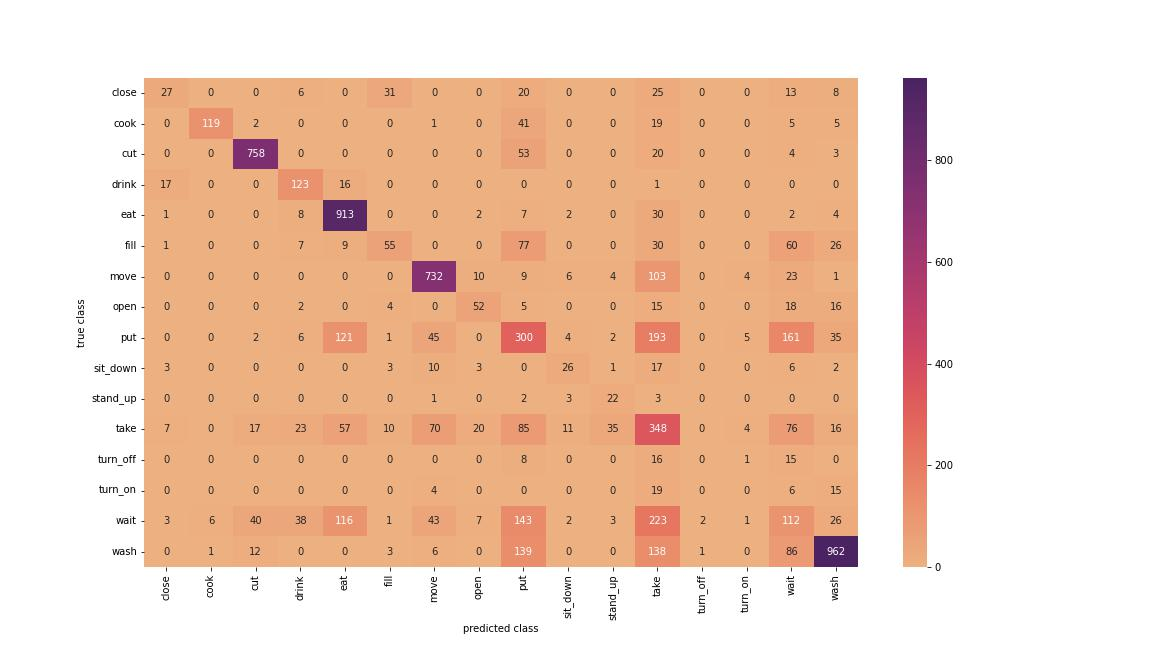
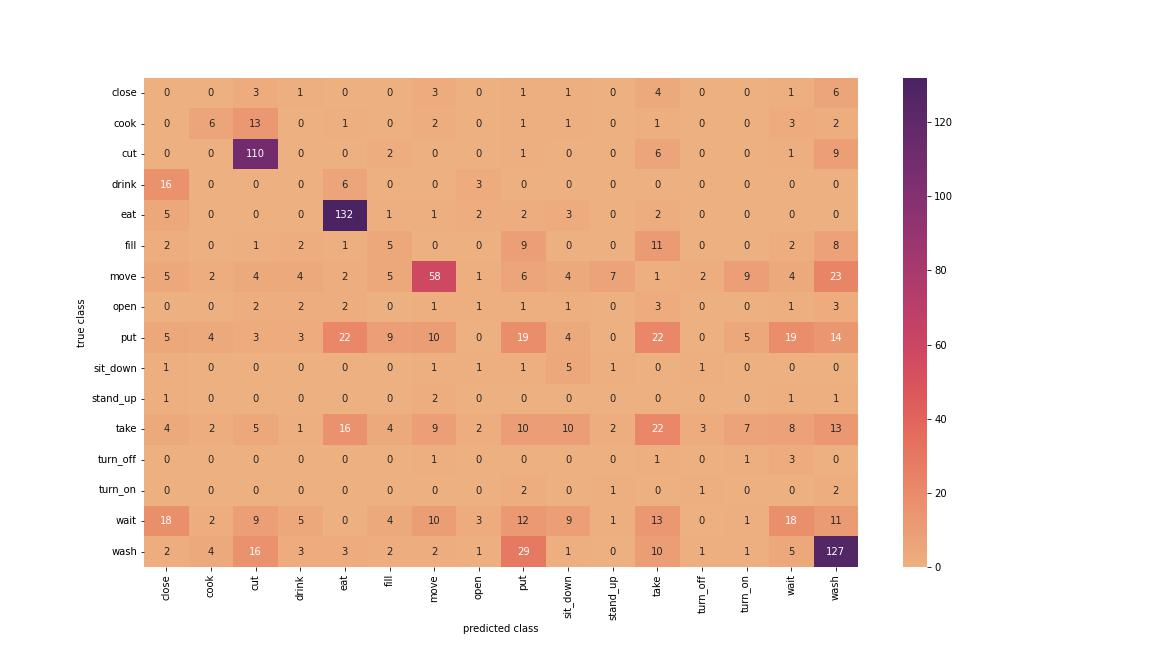
tests

diff --git a/carrots/eval/loaders.py b/carrots/eval/loaders.py
@@ -53,6 +53,19 @@ def one_hot_encode(targets, nb_classes):
     res = np.eye(nb_classes)[np.array(targets).reshape(-1)]
     return res.reshape(list(targets.shape)+[nb_classes])
 
+# Data Augmentation functions from https://github.com/terryum/Data-Augmentation-For-Wearable-Sensor-Data
+def DA_Scaling(X, sigma=0.1):
+    np.random.seed(42)
+    scalingFactor = np.random.normal(loc=1.0, scale=sigma, size=(1,X.shape[1]))
+    myNoise = np.matmul(np.ones((X.shape[0],1)), scalingFactor)
+    return X*myNoise
+
+def DA_Jitter(X, sigma=0.05):
+    np.random.seed(42)
+    myNoise = np.random.normal(loc=0, scale=sigma, size=X.shape)
+    return X+myNoise
+# End DA functions
+
 def make_views(arr, win_size, step_size, writeable = False):
   """
   arr: input 2d array to be windowed
@@ -75,39 +88,74 @@ def make_views(arr, win_size, step_size, writeable = False):
   )
   return new_view_structure
 
-# Load carrots Dataset, it has 16 distinct classes 0-15
-def get_carrots():
-    X_1, y_1, _ = load_dataset(1)
-    X_2, y_2, _ = load_dataset(2)
-    X_3, y_3, _ = load_dataset(3)
-    X_4, y_4, _ = load_dataset(4)
-    X_5, y_5, _ = load_dataset(5)
-    X_6, y_6, _ = load_dataset(6)
-    #X_7, y_7, le = load_dataset(7)
-    
-    x = np.concatenate([X_1, X_2, X_3, X_4, X_5, X_6], axis=0)
-    y = np.concatenate([y_1, y_2, y_3, y_4, y_5, y_6], axis=0)
-
-    # Segementing the DATA into windows of size 128 / ca. 1 second
-    x = np.ascontiguousarray(x)
-    views = make_views(x, 4, 1)
+def get_windows(X,y, win_size, step_size):
+    X = np.ascontiguousarray(X)
+    views = make_views(X, win_size, step_size)
     x_newshape = (views.shape[0], views.shape[1]*views.shape[2])
     x = np.reshape(views, newshape=x_newshape)
         
     y = y.astype('int64') # change labels to int64 for windowing correctly
     y = np.ascontiguousarray(y)
     y_2d = np.reshape(y, (y.shape[0],1))
-    y_views = make_views(y_2d, 4, 1)
+    y_views = make_views(y_2d, win_size, step_size)
     y_newshape = (y_views.shape[0], y_views.shape[1]*y_views.shape[2])
     y_new = np.reshape(y_views, newshape=y_newshape)
-    
-    # Choosing most common value of a window as label
     y,_ = stats.mode(y_new, axis=1, keepdims=False)
+    
+    assert (y.shape[0] == x.shape[0])
+    
+    return x,y
+
+def augment_data(X, y, p=0.5, jitter=0.05, scale=0.1):
+    # augment training samples with noisy samples, here jittering and scaling
+    augment_X = DA_Jitter(X, sigma=jitter) # std: 0.09 for windowed, 0.35 for non-windowed
+    # augment_X = DA_Scaling(augment_X, sigma=scale)
+    
+    idx = np.random.choice(augment_X.shape[0], int(augment_X.shape[0]*p), replace=False)
+    augment_X = augment_X[idx]
+    augment_y = y[idx]
+    return augment_X, augment_y
+
+# Load carrots Dataset, it has 16 distinct classes 0-15
+def get_carrots(window=True, win_size=32, step_size=16, augment=True):
+    X_1, y_1, _ = load_dataset(1)
+    X_2, y_2, _ = load_dataset(2)
+    X_3, y_3, _ = load_dataset(3)
+    X_4, y_4, _ = load_dataset(4)
+    X_5, y_5, _ = load_dataset(5)
+    X_6, y_6, _ = load_dataset(6)
+    
+    if window:
+        X_1,y_1 = get_windows(X_1, y_1, win_size, step_size)
+        X_2,y_2 = get_windows(X_2, y_2, win_size, step_size)
+        X_3,y_3 = get_windows(X_3, y_3, win_size, step_size)
+        X_4,y_4 = get_windows(X_4, y_4, win_size, step_size)
+        X_5,y_5 = get_windows(X_5, y_5, win_size, step_size)
+        X_6,y_6 = get_windows(X_6, y_6, win_size, step_size)
+    
+    x = np.concatenate([X_1, X_2, X_3, X_4, X_5, X_6], axis=0)
+    y = np.concatenate([y_1, y_2, y_3, y_4, y_5, y_6], axis=0)
+    
+    # MHH maybe try scaling each subject individually and then concatenating??
+    global scaler
+    # scaler = preprocessing.Normalizer()
+    # scaler = preprocessing.StandardScaler() # seems to work better than [0.1], but check both it's instable in some cases
+    scaler = preprocessing.MinMaxScaler() # looks like the best option 
+    x = scaler.fit_transform(x)
+    
     
     x_trn, x_val, y_trn, y_val = train_test_split(x,y,test_size=0.2,
                                                       train_size=0.8,
                                                       random_state=42,
                                                       shuffle=True)
+    
+    x_trn = DA_Jitter(x_trn, sigma=0.05) # simulating sensor noise
+    # x_trn = DA_Jitter(x_trn, sigma=0.0005)
+    
+    if augment:
+        augment_X, augment_y = augment_data(x_trn, y_trn,p=0.5, jitter=0.05, scale=0.1)
+        x_trn = np.concatenate((x_trn, augment_X), axis=0)
+        y_trn = np.concatenate((y_trn, augment_y), axis=0)
     
     priors = []
     N = y_trn.size
@@ -118,42 +166,18 @@ def get_carrots():
     
     log_priors = np.log(priors)
     
-    global scaler
-    scaler = preprocessing.StandardScaler()
-    train_X = scaler.fit_transform(x_trn)
-    valid_X = scaler.transform(x_val)
-    
-    #add noise to train to improve robustness
-    # mehr daten erzeugen
-    np.random.seed(42)
-    noise = np.random.normal(0, 0.35, size=(train_X.shape[0], train_X.shape[1]))
-    train_X = train_X + noise
-    
-    return train_X, y_trn, valid_X, y_val, log_priors
+    return x_trn, y_trn, x_val, y_val, log_priors
 
 
+def load_conditional_test(window=True, win_size=32, step_size=32):
+    tst_x, tst_y, le = load_dataset(7)
+    
+    if window:
+        tst_x,tst_y = get_windows(tst_x, tst_y, win_size, step_size)
+    
+    tst_x = scaler.transform(tst_x)
 
-def load_conditional_test():
-    X, y, le = load_dataset(7)
-    
-    x = np.ascontiguousarray(X)
-    views = make_views(x, 4, 4)
-    x_newshape = (views.shape[0], views.shape[1]*views.shape[2])
-    x = np.reshape(views, newshape=x_newshape)
-        
-    y = y.astype('int64') # change labels to int64 for windowing correctly
-    y = np.ascontiguousarray(y)
-    y_2d = np.reshape(y, (y.shape[0],1))
-    y_views = make_views(y_2d, 4, 4)
-    y_newshape = (y_views.shape[0], y_views.shape[1]*y_views.shape[2])
-    y_new = np.reshape(y_views, newshape=y_newshape)
-    
-    # Choosing most common value of a window as label
-    y,_ = stats.mode(y_new, axis=1, keepdims=False)
-    
-    tst_x = scaler.transform(x)
-
-    return tst_x, y, le
+    return tst_x, tst_y, le
 
 
 # Load the UCI HAR Dataset, it has 6 distinct classes 1-6

diff --git a/pytorch-flows/main.py b/pytorch-flows/main.py
@@ -15,6 +15,7 @@ import matplotlib.pyplot as plt
 import seaborn as sns
 from sklearn.metrics import f1_score, accuracy_score
 from sklearn.metrics import confusion_matrix
+from torch.utils.data import WeightedRandomSampler
 import pandas as pd
 
 import sys
@@ -31,13 +32,13 @@ batch_size = 128 # 128 seems good
 test_bs = 128 # can be 128
 num_blocks = 5  # number of mades in maf, default 5
 num_hidden = 512  # 1024 or 512 for mnist, 100 for power, 512 for hepmass
-lr = 1e-4  # 5 works well
-weight_decay = 1e-4
+lr = 5e-5  # 5 works well
+weight_decay = 1e-6
 # random_order = False
-patience = 10  # For early stopping
+patience = 5  # For early stopping
 seed = 42
 # plot = False
-max_epochs = 10  # 1000
+max_epochs = 15  # 1000
 cond = True
 no_cuda = False
 num_cond_inputs = 16 # 16 for carrots, 6 for UCIHAR, None if cond = False
@@ -53,8 +54,8 @@ torch.manual_seed(seed)
 
 # For Carrots
 print('--------Loading and Processing Data--------')
-trn_x, trn_y, v_x, v_y, log_priors = get_carrots()
-tst_x, tst_y, le = load_conditional_test()
+trn_x, trn_y, v_x, v_y, log_priors = get_carrots(window=False, win_size=26, step_size=13, augment=False)
+tst_x, tst_y, le = load_conditional_test(window=False, win_size=26, step_size=26)
 troh_y = one_hot_encode(trn_y, num_cond_inputs)
 vaoh_y = one_hot_encode(v_y, num_cond_inputs)
 teoh_y = one_hot_encode(tst_y, num_cond_inputs)
@@ -104,9 +105,17 @@ test_dataset = torch.utils.data.TensorDataset(test_tensor, test_labels)
 # test_dataset = torch.utils.data.TensorDataset(test_tensor)
 # num_cond_inputs = None
 
+# Because of strong class imbalance a weighted sampler is created, this means that
+# each batch will roughly contain a similar number of samples from all classes
+class_sample_count = np.array([len(np.where(trn_y == t)[0]) for t in np.unique(trn_y)])
+weight = 1. / class_sample_count
+samples_weight = np.array([weight[t] for t in trn_y])
+samples_weight = torch.from_numpy(samples_weight)
+sampler = WeightedRandomSampler(samples_weight.type('torch.DoubleTensor'), len(samples_weight))
+
 print('Creating Data Loaders')
 train_loader = torch.utils.data.DataLoader(
-    train_dataset, batch_size=batch_size, shuffle=True)
+    train_dataset, batch_size=batch_size, sampler=sampler)
 # shuffling of training data is very important, because in the training data
 # classes are grouped together due to temporal structure
 
@@ -125,6 +134,7 @@ test_loader = torch.utils.data.DataLoader(
 
 print('Initializing Model')
 num_inputs = trn_x.shape[1]
+print('Number of features:', num_inputs)
 # num_inputs = dataset.n_dims
 act = 'tanh' if dataset_name == 'GAS' else 'relu'
 

diff --git a/tex/thesis.tex b/tex/thesis.tex
@@ -267,6 +267,8 @@ A very recent approach that shows promising results for HAR is DUSTIN \cite{arro
 Important notes:
 It is important that examples are shuffled to ensure that they are independent and identically distributed. If this is not done the samples are not independent, e.g. first action is much more likely.
 For segementing small values work much better, in Literature often we see window sizes of 0.5 ms to 2 s, but MAF does not seem to cope well with high dimensional inputs, maybe try out 16 samples or so (~128 ms)
+
+Observation: using z-score over normalizing every individual sample in the range [0.1] often results in inf or -inf densities on validation samples. Somehow the learned distribution becomes unimodal and only has not-nan densities on one class and nan densities everywhere else. This problem can be solved by the following measures: With H=1024, jitter the training set enough $\sigma=0.35$. With H=512, we don't need to jitter. With a small learning rate $lr=1e-5$ no jittering is needed and H=1024 works
 %\begin{algorithm}{\MYCALL{EfficientLOD}{$\ALI$, $\ONT_1$, $\ONT_2$}}
 %\caption[Efficient Local Optimal Diagnosis]{}
 %\label{alg:efficient-lod}
